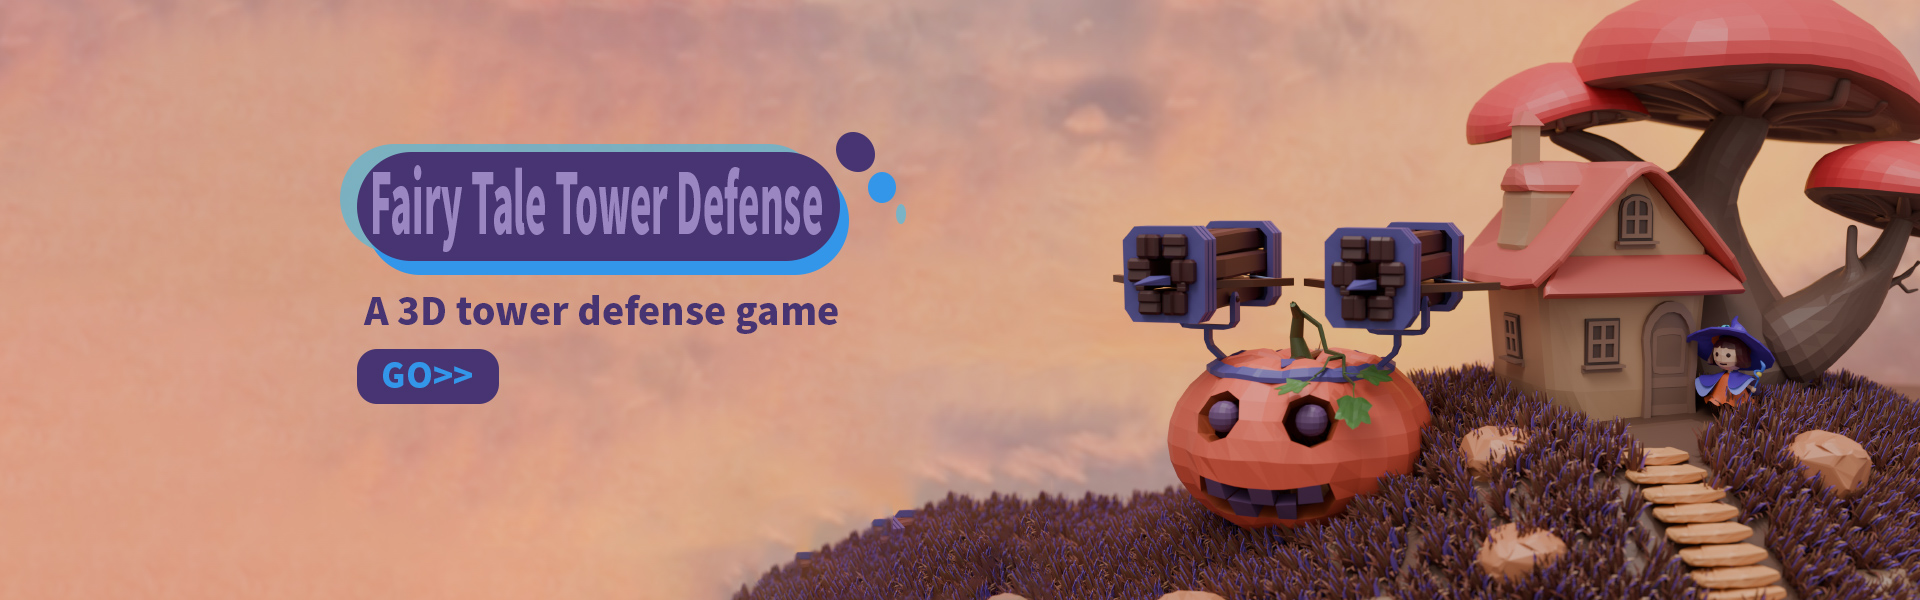
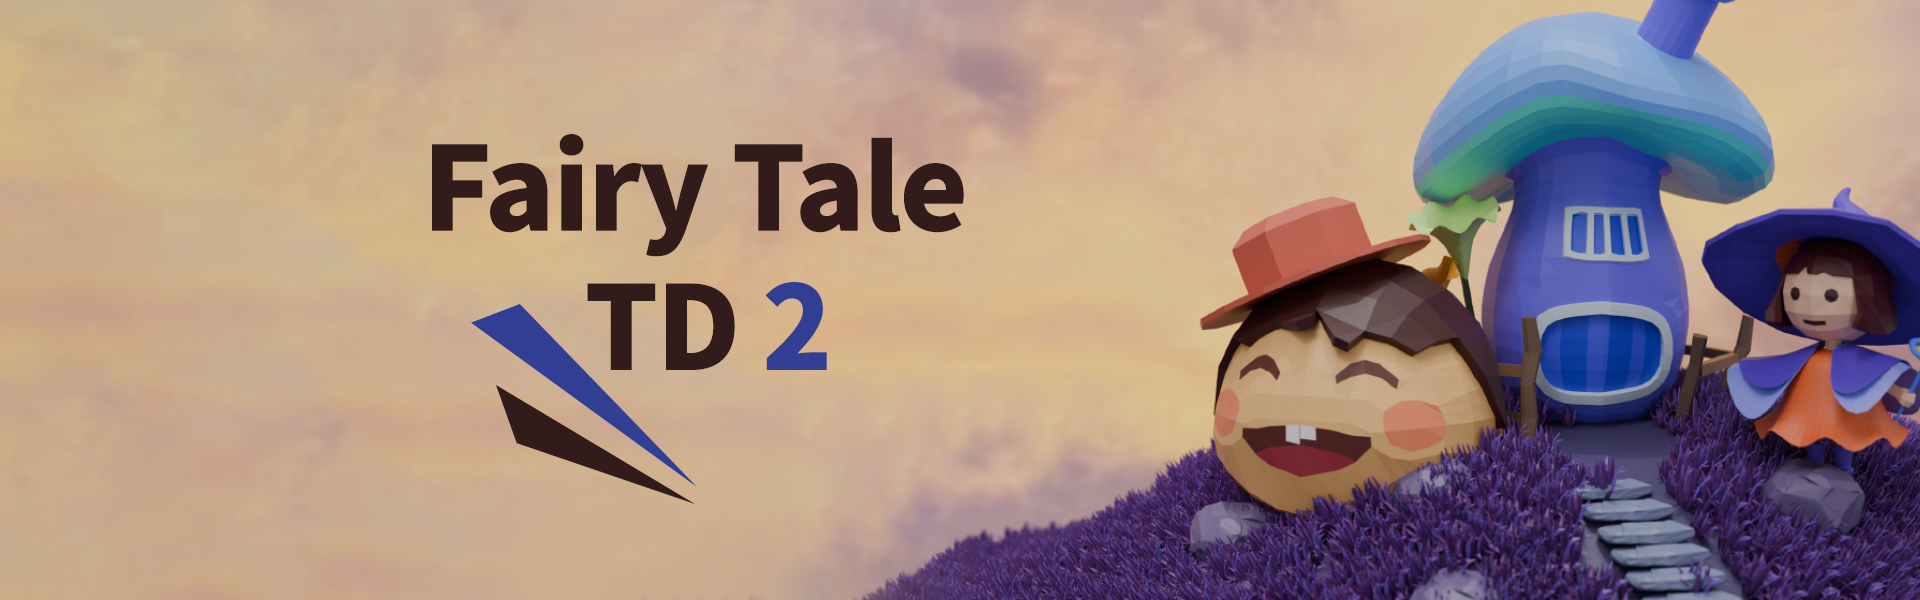
main

diff --git a/js/ui.js b/js/ui.js
@@ -35,7 +35,7 @@ function CreateMenu(ele_p) {
             ElegantVideoEditing: "Elegant Video Editing",
 
             games: "games",
-            FT_TD: "Fairy Tale Tower Defense",
+            FT_TD: "Fairy Tale TD 2",
 
         }
 
@@ -616,7 +616,7 @@ function CreateEvent_TopAndBottom() {
         }
 
         if (e.target.id == "menu_ft_td") {
-            open_web("https://store.steampowered.com/app/3311220/Fairy_Tale_Tower_Defense/", "_blank");
+            open_web("https://store.steampowered.com/app/3616320", "_blank");
         }
 
         // if (e.target.id == "menu_create_html") {

diff --git a/js/banner_lb.js b/js/banner_lb.js
@@ -79,7 +79,7 @@ AddEvent(GetID("banner_content"), "click", function (e) {
         open_web_PS("c7ac739d");
     }
     if (e.target.id == "banner_game1") {
-        open_web("https://store.steampowered.com/app/3311220/_Fairy_Tale_Tower_Defense/");
+        open_web("https://store.steampowered.com/app/3616320");
     }
 
 }, true);
